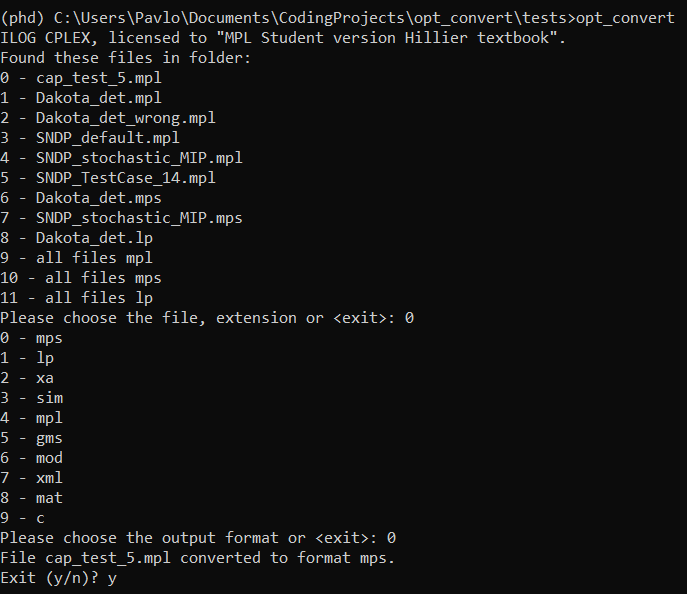
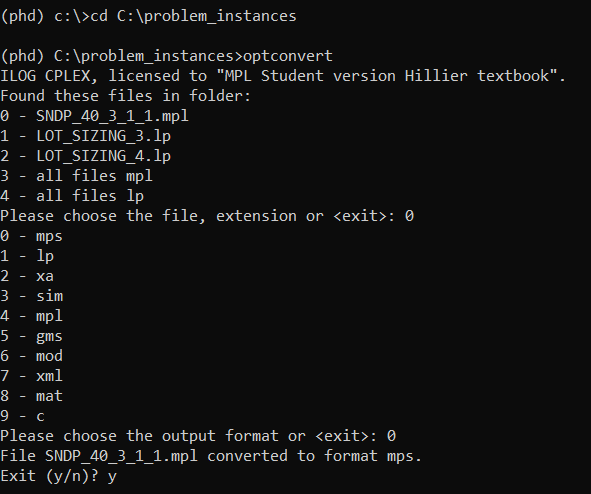
renamed opt_convert to optconvert, ready for PyPi

Changed region(s): [[0.0, 0.0, 0.9746, 1.0], [0.3655, 0.4251, 0.7005, 0.4555], [0.8223, 0.1215, 0.9442, 0.1822]]

diff --git a/setup.py b/setup.py
@@ -5,30 +5,32 @@ INSTALL_REQUIRES = []
 INSTALL_REQUIRES.append('scipy') # for mplpy
 INSTALL_REQUIRES.append('matplotlib') # for mplpy
 INSTALL_REQUIRES.append('wxPython') # for mplpy
-INSTALL_REQUIRES.append('mplpy') # for opt_convert
+INSTALL_REQUIRES.append('mplpy') # for optconvert
 INSTALL_REQUIRES.append('mplpy')
+
+version = '0.0.1'
 
 license='MIT'
 if os.path.exists('LICENSE'):
   license = open('LICENSE').read()
 
-long_description = """
-    The Python package and command line utility for transforming mathematical optimization models defined in .mpl, .lp, .mps file formats to .mps, .lp, .xa, .mpl, .mod and other formats.
-    https://github.com/pashtetgp/opt_convert - README
-  """
+with open("README.md", "r") as fh:
+    long_description = fh.read()
 
-setup(name='opt_convert',
-      version='0.0.1',
+setup(name='optconvert',
+      version=version,
       python_requires='>=3.6', # does not work for some reason
-      description='Converter for mathematical optimization formats: .mpl, .lp, .mps -> .mps, .lp, .xa, .mpl, .mod etc.',
+      description='Converter for mathematical optimization formats: .mpl, .lp, .xa, .sim, .mpl, .gms, .mod, .xml, .mat.',
       long_description=long_description,
+      long_description_content_type="text/markdown",
       keywords='converter mathematical optimization mps',
       author='Pavlo Glushko',
       author_email='pavloglushko@gmail.com',
-      url='https://github.com/pashtetgp/opt_convert',
-      download_url='https://github.com/pashtetgp/opt_convert/tarball/0.0.1',
+      url='https://github.com/pashtetgp/optconvert',
+      download_url=f'https://github.com/pashtetGP/optconvert/archive/{version}.tar.gz',
       license=license,
-      packages=find_packages(),      classifiers=[
+      packages=find_packages(),
+      classifiers=[
         'Environment :: Console',
         'Intended Audience :: Science/Research',
         'Natural Language :: English',
@@ -43,7 +45,7 @@ setup(name='opt_convert',
       include_package_data=True, # files from MANIFEST.in
       test_suite='tests',
       entry_points = {
-        'console_scripts': ['opt_convert=opt_convert.command_line:command_line'],
+        'console_scripts': ['optconvert=optconvert.command_line:command_line'],
       },
       install_requires=INSTALL_REQUIRES
 )

diff --git a/optconvert/command_line.py b/optconvert/command_line.py
@@ -1,14 +1,14 @@
 import argparse
 import sys
 from pathlib import Path
-from opt_convert import Converter, Messages, Model
+from optconvert import Converter, Messages, Model
 
 def parse_args(args):
 
     supported_formats = Model.supported_out_formats
 
-    parser = argparse.ArgumentParser(prog='opt_convert',
-                                     description='opt_convert converts files of (stochastic) optimization instances.')
+    parser = argparse.ArgumentParser(prog='optconvert',
+                                     description='optconvert converts files of (stochastic) optimization instances.')
 
     parser.add_argument('--file', default=[], type=str, action='append', dest='files',
                         help="Filename with the extension of the file to convert, e.g., siplib.lp. Default value: None (chose files interactively)")

diff --git a/optconvert/model.py b/optconvert/model.py
@@ -2,7 +2,7 @@ from pathlib import Path
 import os
 import shutil
 import re
-from opt_convert import Messages, Numbers, Solvers
+from optconvert import Messages, Numbers, Solvers
 from mplpy import mpl, ResultType, ModelResultException, InputFileType
 
 mpl.Options['MpsCreateAsMin'].Value = 1  # always transform the obj function to min before mps gen
@@ -52,7 +52,7 @@ class Model:
 
     Examples
     -------
-    from opt_convert import Model
+    from optconvert import Model
     from pathlib import Path
 
     in_file = Path('Dakota_det.mpl')

diff --git a/tests/unit_tests.py b/tests/unit_tests.py
@@ -3,7 +3,7 @@ from unittest.mock import patch
 import sys
 from pathlib import Path
 import shutil
-from opt_convert import Converter, Model, MplWithExtData, parse_args, command_line, Messages, Solvers
+from optconvert import Converter, Model, MplWithExtData, parse_args, command_line, Messages, Solvers
 
 
 class TestConverter(TestCase):

diff --git a/optconvert/__init__.py b/optconvert/__init__.py
@@ -1,0 +1,5 @@
+from optconvert.const import Messages, Numbers, Solvers
+from optconvert.model import Model
+from optconvert.mpl_with_ext_data import MplWithExtData
+from optconvert.converter import Converter
+from optconvert.command_line import parse_args, command_line

diff --git a/optconvert/converter.py b/optconvert/converter.py
@@ -1,5 +1,5 @@
 from pathlib import Path
-from opt_convert import Messages, Model
+from optconvert import Messages, Model
 
 class Converter:
 

diff --git a/optconvert/mpl_with_ext_data.py b/optconvert/mpl_with_ext_data.py
@@ -1,5 +1,5 @@
 from pathlib import Path
-from opt_convert import Model
+from optconvert import Model
 
 
 class _DataItem():

diff --git a/README.md b/README.md
@@ -8,26 +8,25 @@
 
 <!-- PROJECT LOGO -->
 <br />
-<p align="center">
-  <a href="https://github.com/pashtetgp/opt_convert">
-    <img src="logo.png" alt="Logo" width="80" height="80">
+<p>
+  <a href="https://github.com/pashtetgp/optconvert">
+    <img src="https://github.com/pashtetGP/optconvert/raw/master/logo.png" alt="Logo" width="80" height="80">
   </a>
 </p>
 
-  <h3 align="center">OPT_CONVERT</h3>
 
-  <p align="center">
-    The Python package and command line utility for transforming mathematical optimization models defined in .mpl, .lp, .mps file formats to .mps, .lp, .xa, .mpl, .mod and other formats.
-    <br />
-    <a href="https://github.com/pashtetgp/opt_convert"><strong>Explore the docs »</strong></a>
-    <br />
-    <br />
-    <!-- <a href="https://github.com/pashtetgp/opt_convert">View Demo</a>
-    ·-->
-    <a href="https://github.com/pashtetgp/opt_convert/issues">Report Bug</a>
-    ·
-    <a href="https://github.com/pashtetgp/opt_convert/issues">Request Feature</a>
-  </p>
+# OPTCONVERT
+
+Converter for mathematical optimization formats: .mpl, .lp, .xa, .sim, .mpl, .gms, .mod, .xml, .mat.
+
+
+[**Explore the docs**](https://github.com/pashtetgp/optconvert)
+
+
+<!-- <a href="https://github.com/pashtetgp/optconvert">View Demo</a> -->
+[Report Bug](https://github.com/pashtetgp/optconvert/issues)
+    -
+[Request Feature](https://github.com/pashtetgp/optconvert/issues)
 
 
 
@@ -51,7 +50,7 @@
 <!-- ABOUT THE PROJECT -->
 ## About The Project
 
-![CLI example](cli_example.png)
+![CLI example](https://github.com/pashtetGP/optconvert/raw/master/cli_example.png)
 
 Everyone who works with mathematical optimization problems knows what pain in the *** it can be 
 to convert problems from one file format into another. Often ad-hoc solutions for the specific test set
@@ -101,9 +100,9 @@ To get a local copy up and running follow these simple steps.
     1. Download and install the [full/academic](http://www.maximalsoftware.com/distrib) or [student](http://www.maximalsoftware.com/download) version of MPL
     1. Install OptiMax Library. On Windows installation file is located in C:\Mplwin\50\setup\Python
 
-1. Install opt_convert
+1. Install optconvert
     ```
-    pip install opt-convert
+    pip install optconvert
     ```
 
 ### Installation from GitHub repo
@@ -119,25 +118,25 @@ To get a local copy up and running follow these simple steps.
     
 1. Clone the repo
     ```
-    git clone https://github.com/pashtetgp/opt_convert.git
+    git clone https://github.com/pashtetgp/optconvert.git
     ```
    
 1. cd to project folder and install the package
     ```
-    cd C:\opt_convert
-    pip install ..\opt_convert
+    cd C:\optconvert
+    pip install ..\optconvert
     ```
 
 ## Uninstall
 
-run in command line `pip uninstall opt-convert`
+run in command line `pip uninstall optconvert`
 
 <!-- USAGE EXAMPLES -->
 ## Usage
 ### As Python module
 See class docstrings for details.
 ```
-from opt_convert import Model
+from optconvert import Model
 from pathlib import Path
 
 in_file = Path('Dakota_det.mpl')
@@ -149,20 +148,20 @@ model.export(out_file)
 
 ### Via CLI
 
-Change the directory to the folder with model files and run ```opt_convert```.
+Change the directory to the folder with model files and run ```optconvert```.
 One or multiple files can be converted at once.
 
-![CLI example](cli_example.png)
+![CLI example](https://github.com/pashtetGP/optconvert/raw/master/cli_example.png)
 <!--_For more examples, please refer to the [Documentation](https://example.com)_-->
 
 CLI mode accepts --file and --out_format arguments
 
-![CLI example](cli_arguments.png)
+![CLI example](https://github.com/pashtetGP/optconvert/raw/master/cli_arguments.png)
 
 <!-- ROADMAP -->
 ## Roadmap
 
-See the [open issues](https://github.com/pashtetgp/opt_convert/issues) for a list of proposed features (and known issues).
+See the [open issues](https://github.com/pashtetgp/optconvert/issues) for a list of proposed features (and known issues).
 
 
 
@@ -191,7 +190,7 @@ Distributed under the MIT License. See `LICENSE` for more information.
 
 Pavlo Glushko
 
-Project Link: [https://github.com/pashtetgp/opt_convert](https://github.com/pashtetgp/opt_convert)
+Project Link: [https://github.com/pashtetgp/optconvert](https://github.com/pashtetgp/optconvert)
 
 
 
@@ -207,15 +206,15 @@ Project Link: [https://github.com/pashtetgp/opt_convert](https://github.com/pash
 
 <!-- MARKDOWN LINKS & IMAGES -->
 <!-- https://www.markdownguide.org/basic-syntax/#reference-style-links -->
-[contributors-shield]: https://img.shields.io/github/contributors/pashtetgp/opt_convert.svg?style=flat-square
-[contributors-url]: https://github.com/pashtetgp/opt_convert/graphs/contributors
-[forks-shield]: https://img.shields.io/github/forks/pashtetgp/opt_convert.svg?style=flat-square
-[forks-url]: https://github.com/pashtetgp/opt_convert/network/members
-[stars-shield]: https://img.shields.io/github/stars/pashtetgp/opt_convert.svg?style=flat-square
-[stars-url]: https://github.com/pashtetgp/opt_convert/stargazers
-[issues-shield]: https://img.shields.io/github/issues/pashtetgp/opt_convert.svg?style=flat-square
-[issues-url]: https://github.com/pashtetgp/opt_convert/issues
-[license-shield]: https://img.shields.io/github/license/pashtetgp/opt_convert.svg?style=flat-square
-[license-url]: https://github.com/pashtetgp/opt_convert/blob/master/LICENSE.txt
+[contributors-shield]: https://img.shields.io/github/contributors/pashtetgp/optconvert.svg?style=flat-square
+[contributors-url]: https://github.com/pashtetgp/optconvert/graphs/contributors
+[forks-shield]: https://img.shields.io/github/forks/pashtetgp/optconvert.svg?style=flat-square
+[forks-url]: https://github.com/pashtetgp/optconvert/network/members
+[stars-shield]: https://img.shields.io/github/stars/pashtetgp/optconvert.svg?style=flat-square
+[stars-url]: https://github.com/pashtetgp/optconvert/stargazers
+[issues-shield]: https://img.shields.io/github/issues/pashtetgp/optconvert.svg?style=flat-square
+[issues-url]: https://github.com/pashtetgp/optconvert/issues
+[license-shield]: https://img.shields.io/github/license/pashtetgp/optconvert.svg?style=flat-square
+[license-url]: https://github.com/pashtetgp/optconvert/blob/master/LICENSE.txt
 [linkedin-shield]: https://img.shields.io/badge/-LinkedIn-black.svg?style=flat-square&logo=linkedin&colorB=555
 [linkedin-url]: https://linkedin.com/in/pavloglushko
